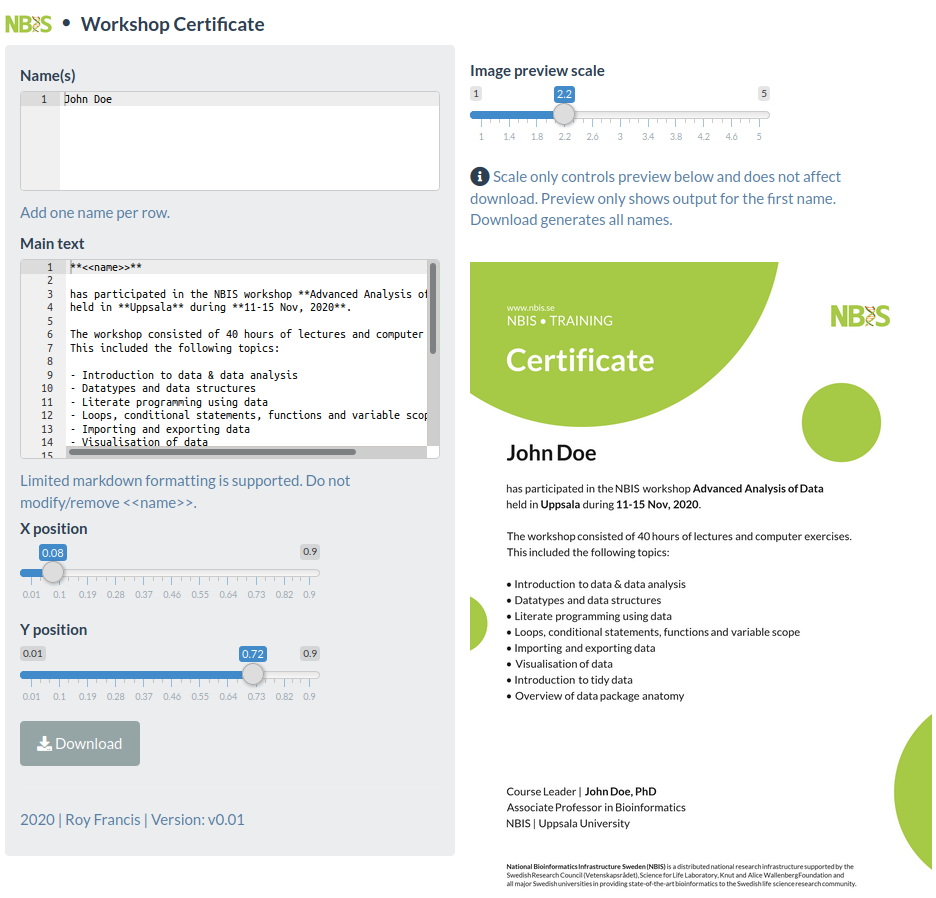
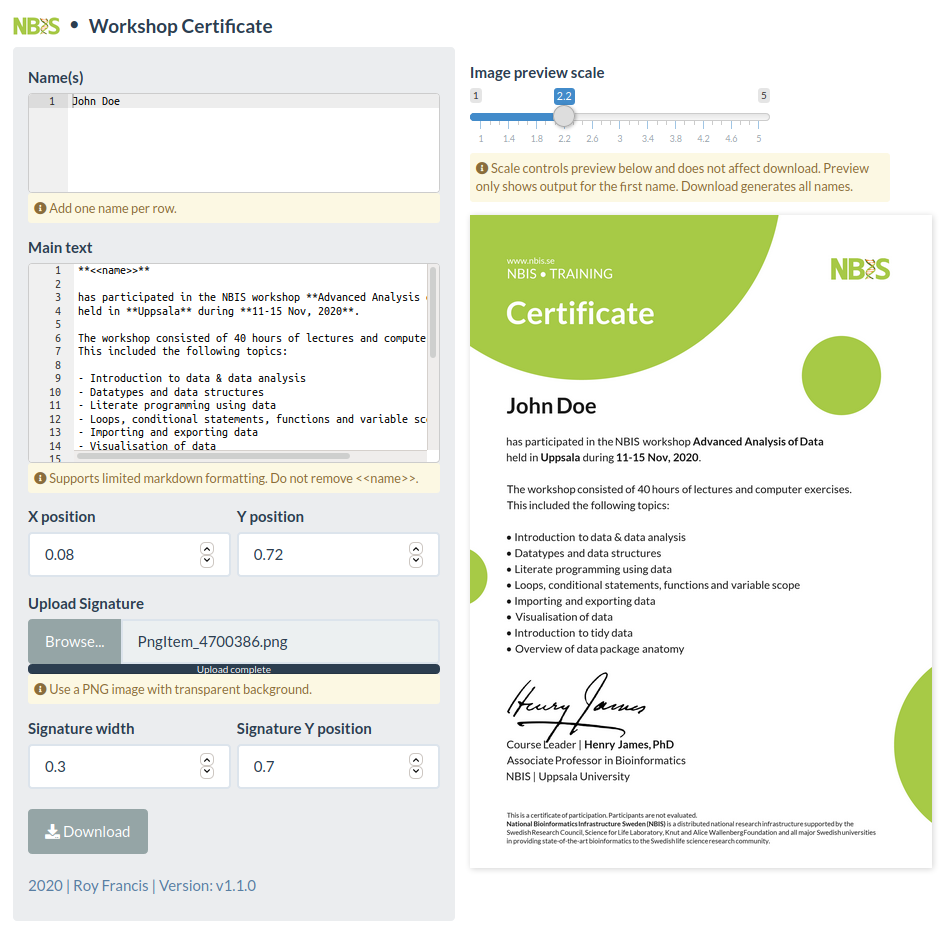
v1.1.0
Updated formatting, styles , text, 
Updated functions,
Added signature upload,
Added magick package

Changed region(s): [[0.0, 0.0624, 1.0, 0.9978], [0.0, 0.0, 0.2788, 0.1247], [0.3098, 0.5924, 0.3408, 0.6236]]

diff --git a/www/styles.css b/www/styles.css
@@ -1,0 +1,34 @@
+/* custom css styles */
+
+#in_names {
+  margin-bottom:0;
+}
+
+#in_txt {
+  margin-bottom:0;
+}
+
+#in_img_sign_progress {
+  margin-bottom:0;
+}
+
+.form-group {
+  margin-bottom:0;
+}
+
+.help-note {
+  font-size:0.85em;
+  color:#8a6d3b;
+  background-color:#fcf8e3;
+  border-color:#faebcc;
+  padding:6px;
+  margin-bottom:3px;
+  border-radius:3px;
+}
+
+.img-output {
+  -webkit-box-shadow: 1px 1px 6px lightgrey;
+  -moz-box-shadow: 1px 1px 6px lightgrey;
+  box-shadow: 1px 1px 6px lightgrey;
+  display:inline-block;
+}

diff --git a/README.md b/README.md
@@ -25,9 +25,9 @@ The app should be available through a web browser at `http://0.0.0.0:8787`.
 Install the following R packages:
 
 ```
-install.packages(c(Cairo, ggplot2, ggtext, png, shiny, shinythemes, shinyAce, showtext))
+install.packages(c(Cairo, ggplot2, ggtext, magick, png, shiny, shinythemes, shinyAce, showtext))
 ```
 
 This repo is not an R package. In the root directory of this repo, run app using `shiny::runApp("app.R")`.
 
-2020 | Roy Francis
+2020 • Roy Francis
